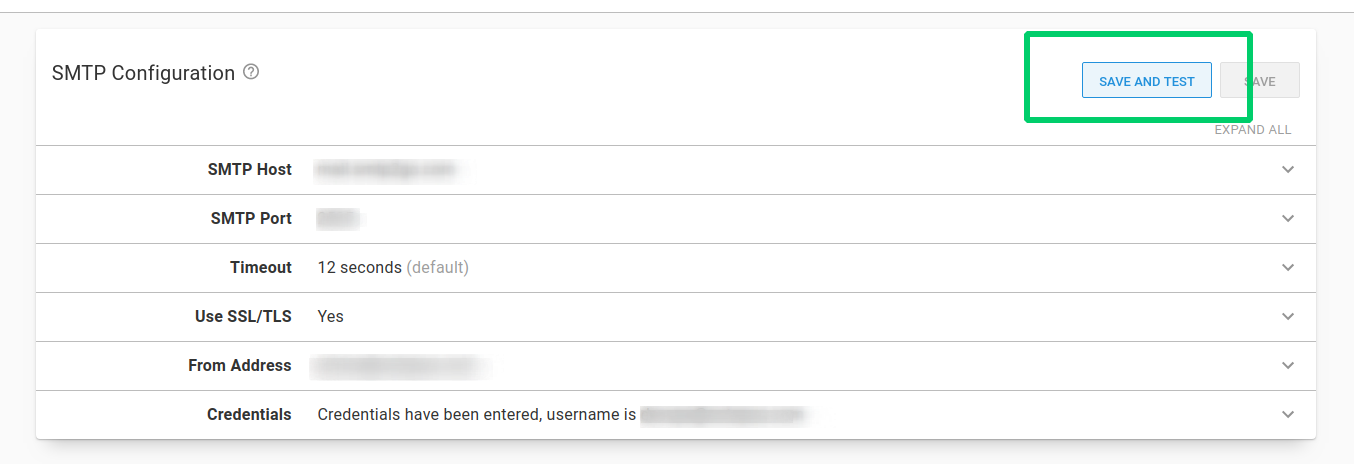
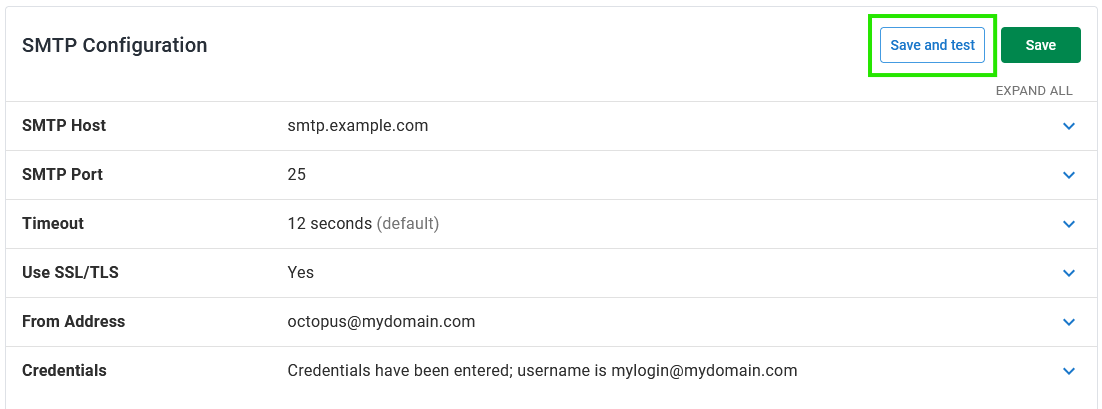
Update email page

diff --git a/src/pages/docs/projects/built-in-step-templates/email-notifications.md b/src/pages/docs/projects/built-in-step-templates/email-notifications.md
@@ -1,8 +1,9 @@
 ---
 layout: src/layouts/Default.astro
 pubDate: 2023-01-01
-modDate: 2023-01-01
+modDate: 2024-08-27
 title: Email notification step
+icon: fa-solid fa-envelope
 description: Email notification steps allow you to notify team members and stakeholders of deployment activities.
 navOrder: 10
 ---
@@ -30,19 +31,13 @@ To add your SMTP configuration navigate to **Configuration ➜ SMTP** and set th
 | From Address       | The address which all emails will be sent 'From'. | octopus@mydomain.com |
 | Credentials        | Optional SMTP login / password if your SMTP server requires authentication. | mylogin@mydomain.com / SuperSecretPa$$word |
 
-Click **SAVE AND TEST** to save the SMTP configuration and verify the values are valid:
+Click **Save and test** to save the SMTP configuration and verify the values are valid:
 
 :::figure
 ![](/docs/projects/built-in-step-templates/images/smtp-configuration.png)
 :::
 
-You will be prompted for an email address to send a test email to:
-
-:::figure
-![](/docs/projects/built-in-step-templates/images/smtp-test-email.png)
-:::
-
-Enter a test email address and click **OK**. A Send test email task will start to verify your SMTP Configuration:
+You will be prompted for an email address to send a test email to. Enter a test email address and click **Ok**. A *Send test email* task will start to verify your SMTP Configuration:
 
 :::figure
 ![](/docs/projects/built-in-step-templates/images/smtp-verify-task.png)
@@ -52,30 +47,27 @@ Enter a test email address and click **OK**. A Send test email task will start t
 
 Email steps are added to deployment processes in the same way as other steps.
 
-1. Navigate to your [project's](/docs/projects) overview page by selecting **Projects** and clicking on the project you are working with.
-2. Click **PROCESS** and **ADD STEP** to add a step to an existing process. Alternatively, if this is a new deployment process, click the **DEFINE YOUR DEPLOYMENT PROCESS** button, and click **ADD STEP**.
-3. Find the **Send Email** step, hover over the step, and click **ADD**.
+1. Navigate to your [project](/docs/projects).
+2. Click **Process** and **Add step** to add a step to an existing process. Alternatively, if this is a new deployment process, click the **Create process** button.
+3. Find the **Send an Email** step, hover over the step, and click **Add step**.
 4. Give the step a short memorable name.
-5. The step will run on the Octopus Server.
-6. Choose the recipients of the email. You have several options:
+5. Choose the recipients of the email. You have several options:
 
    - Enter a comma-separated list of email addresses.
-   - Bind to a [variable](/docs/projects/variables) which defines a list of email addresses (this is really useful for tailoring your recipient list per-environment).
+   - Bind to a [variable](/docs/projects/variables) which defines a list of email addresses (this is useful for tailoring your recipient list per-environment).
    - Choose [one or more teams](/docs/security/users-and-teams) to include members of those teams in the recipient list.
    - Use a combination of all of these options.
+  
+Octopus will build the resulting recipient list during the deployment, remove duplicate email addresses, and send the email to each recipient.
 
-Octopus will build the resulting recipient list during the deployment, remove duplicate emails addresses, and send the email to each recipient.
-docs
-
-7. Provide a subject line for the emails. The subject can contain Octopus [basic variable syntax](/docs/projects/variables/variable-substitutions/#basic-syntax-variablesubstitutionsyntax-basicsyntax).
-8. Add the body of the email. The email can be sent in plain text or HTML, and you can use Octopus [extended variable syntax](/docs/projects/variables/variable-substitutions/#extended-syntax) to include information about the deployment in the email. See the [Email Template Examples](#email-template-examples) below.
-9. You can set conditions to determine when the step should run. For instance:
+6. Provide a subject line for the emails. The subject can contain Octopus [basic variable syntax](/docs/projects/variables/variable-substitutions/#basic-syntax-variablesubstitutionsyntax-basicsyntax).
+7. Add the body of the email. The email can be sent in plain text or HTML, and you can use Octopus [extended variable syntax](/docs/projects/variables/variable-substitutions/#extended-syntax) to include information about the deployment in the email. See the [email template examples](#email-template-examples) below.
+8. You can set conditions to determine when the step should run. For instance:
 
    - Send the email only for successful deployments to certain environments.
    - Send a specific email for failed deployments.
-   - Send an email based on the value of a variable expression which works really well with [output variables](/docs/projects/variables/output-variables).
-
-10. Save the step.
+   - Send an email based on the value of a variable expression which works well with [output variables](/docs/projects/variables/output-variables).
+9.  Save the deployment process.
 
 ## Email template examples
 
@@ -118,11 +110,9 @@ The output of the template will be an HTML email like:
 ![](/docs/projects/built-in-step-templates/images/email-output.png)
 :::
 
-### Including step status
+### Step status summary template
 
 The outcome of each step can be included using a template like the one below:
-
-**Step status summary template**
 
 ```xml
 <h3>Task summary</h3>
@@ -142,9 +132,10 @@ The outcome of each step can be included using a template like the one below:
 
 :::div{.hint}
 **Step error detail**
+
 `step.Status.Error` and `step.Status.ErrorDetail` will only display the exit code and Octopus stack trace for the error. As we cannot parse the deployment log, we can only extract the exit/error codes. It cannot show detailed information on what caused the error. For full information on what happened when the deployment fails, you will need to reference the logs.
 
-See [System variables](/docs/projects/variables/system-variables)
+See [system variables](/docs/projects/variables/system-variables) for more detail.
 :::
 
 ### Referencing package metadata
@@ -162,7 +153,7 @@ This example displays package ID and version numbers for any steps that referenc
 ```
 
 :::div{.hint}
-Iterating over `Octopus.Action` like this above is a useful way to retrieve data from all steps in your process without having to refer to a hard coded step name that could potentially change.
+Iterating over `Octopus.Action` like above is a useful way to retrieve data from all steps in your process without having to refer to a hard-coded step name that could potentially change.
 :::
 
 #### Referencing additional package metadata
@@ -180,7 +171,3 @@ Using [custom scripts](/docs/deployments/custom-scripts) you can include additio
   #{/each}
 #{/each}
 ```
-
-:::div{.hint}
-Iterating over both `Octopus.Action` and `action.Package` like this above is a useful way to retrieve data from all steps in your process without having to refer to a hard coded step or package reference name that could potentially change over time.
-:::
